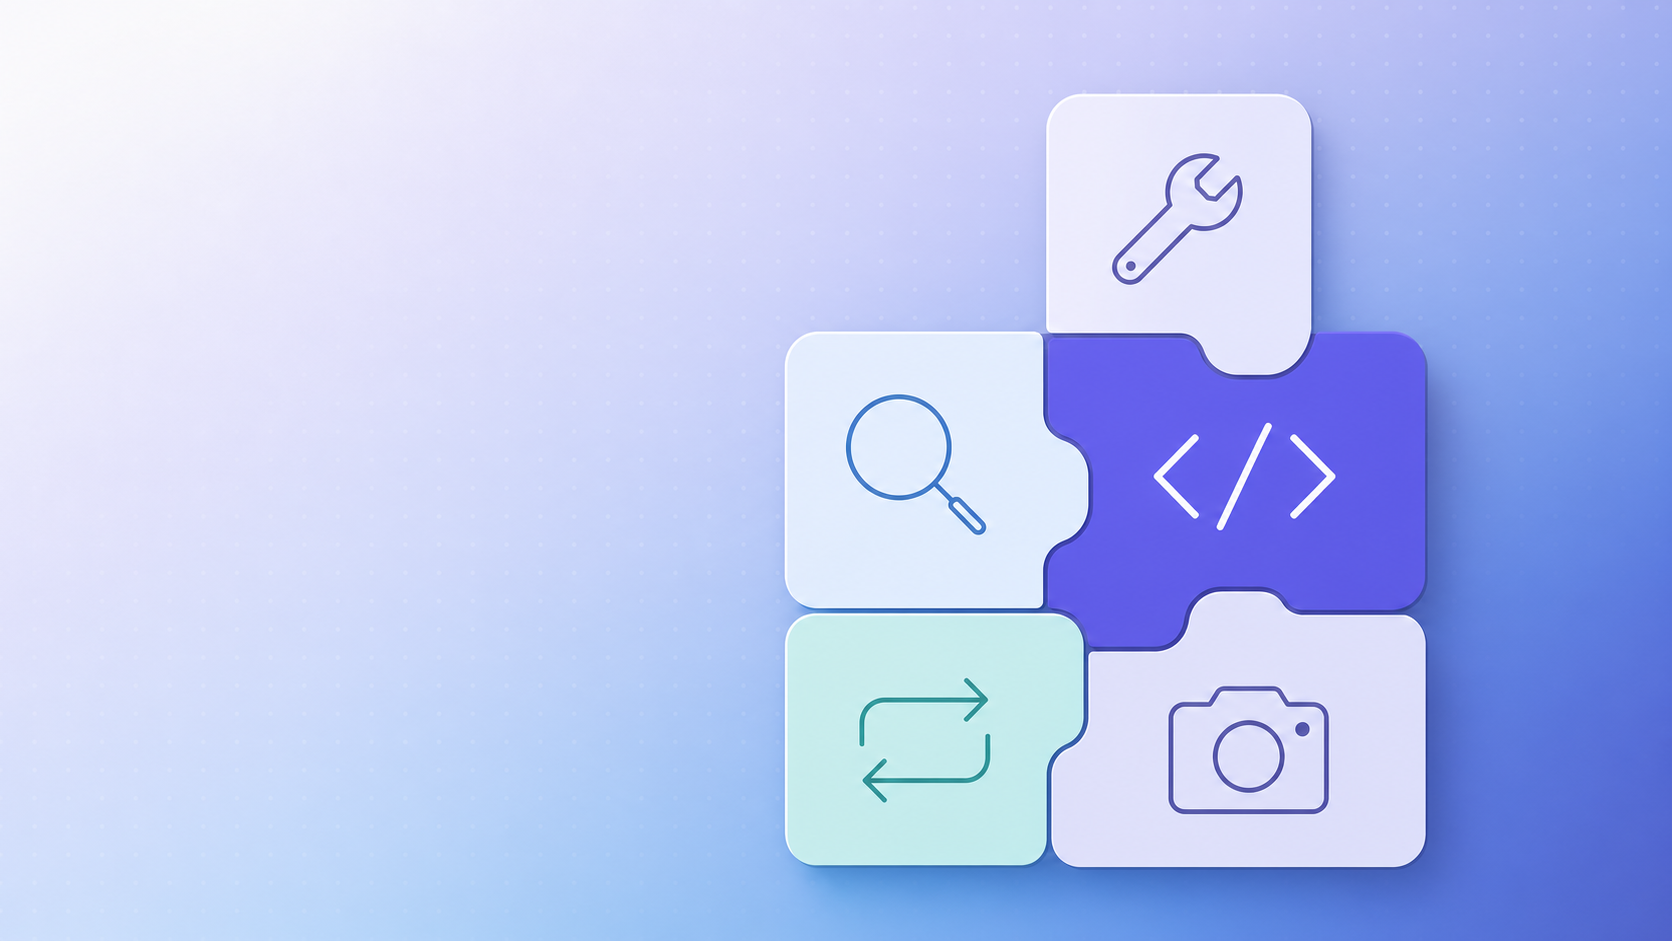
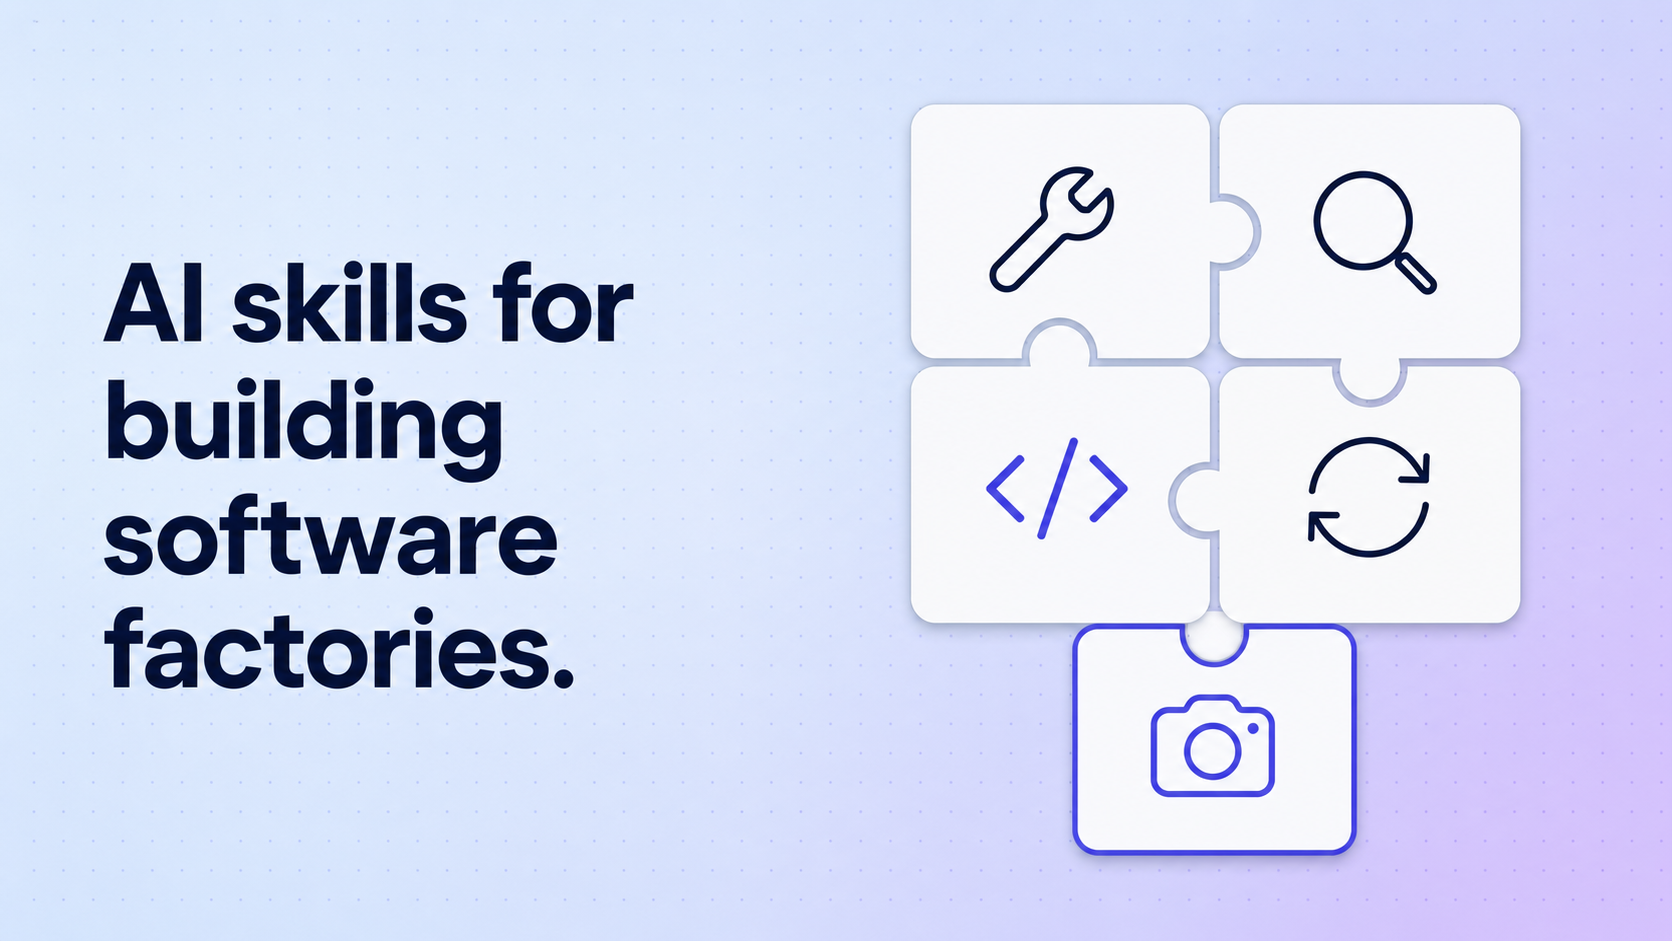
README: hero image with tagline "AI skills for building software factories"
Bake the tagline into the hero banner and drop the redundant markdown
tagline line.

Claude-Session: https://claude.ai/code/session_01Q4C3ty7ieUC3BpV4qDA9Jj

diff --git a/README.md b/README.md
@@ -1,10 +1,8 @@
 # Skills
 
-**A personal library of composable agent skills — for disciplined engineering, not vibe coding.**
-
 [![skills.sh](https://skills.sh/b/dzhng/skills)](https://skills.sh/dzhng/skills)
 
-![Agent skills](assets/hero.png)
+![AI skills for building software factories](assets/hero.png)
 
 These are the general-purpose, domain-agnostic skills I reuse across every
 project. A skill is just a `SKILL.md`: frontmatter describing when the agent